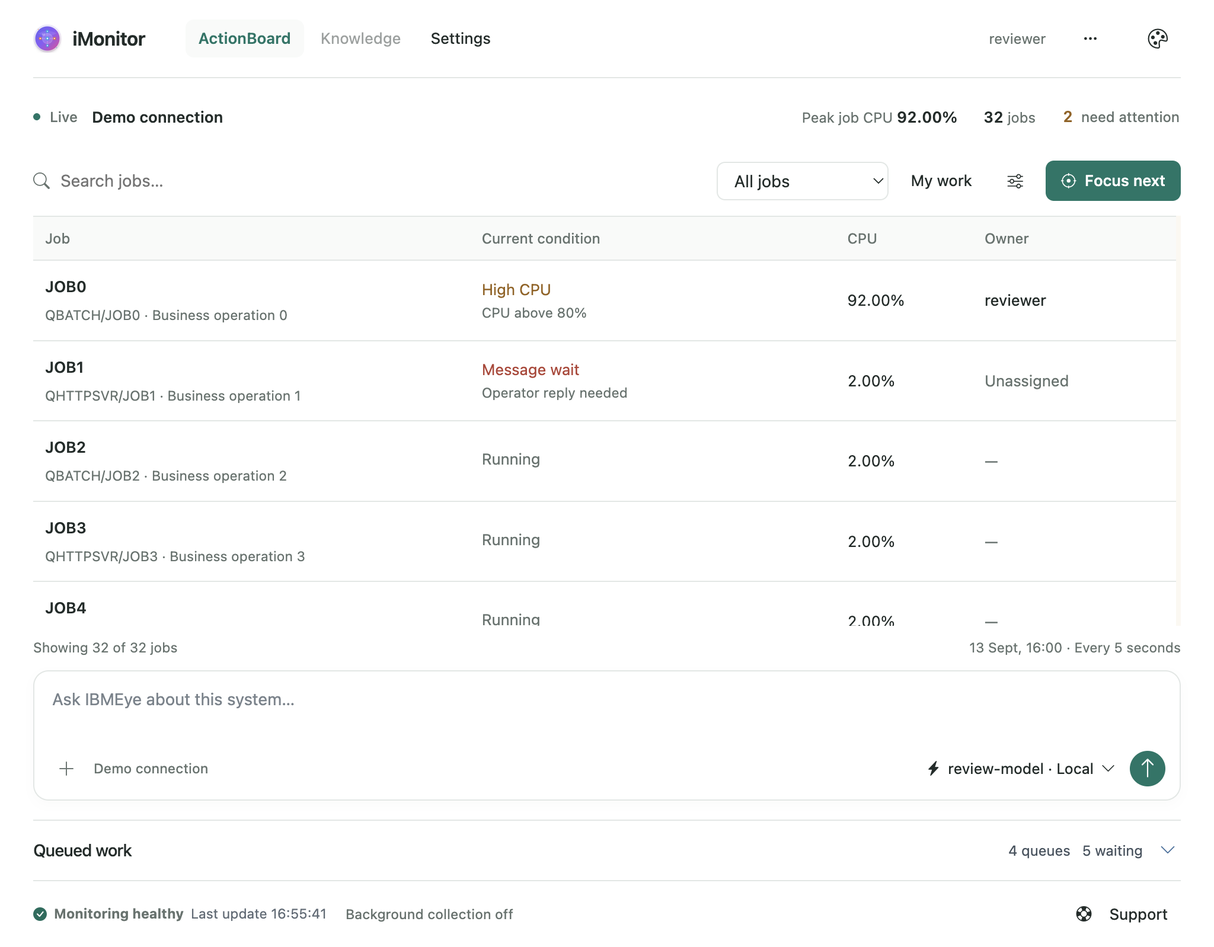
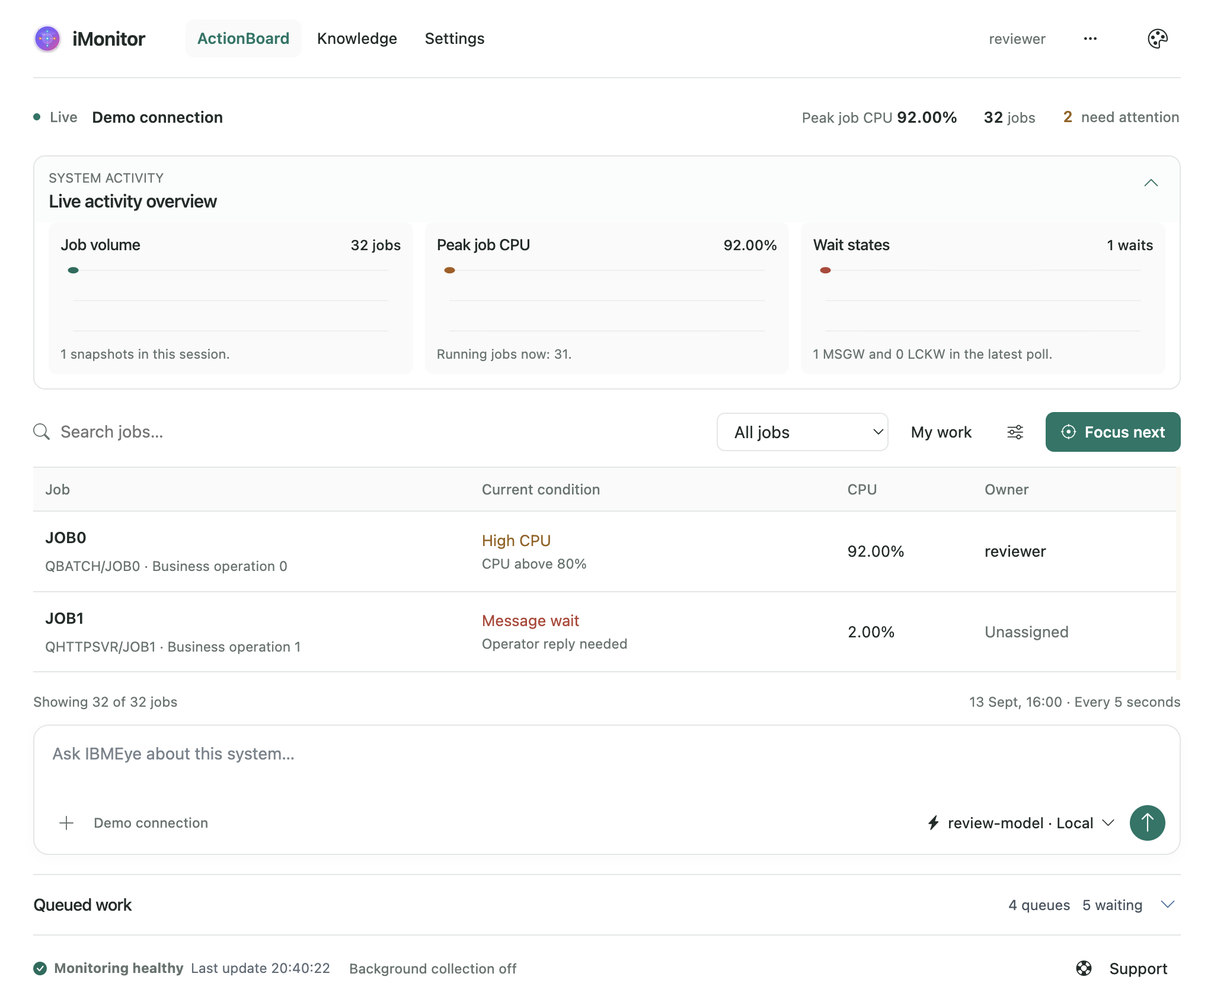
fix: show live activity on board entry (#58, UI-02, Project 8)

diff --git a/tests/e2e/board-workspace.spec.ts b/tests/e2e/board-workspace.spec.ts
@@ -50,6 +50,14 @@ async function pushSnapshot(app: ElectronApplication, data = jobs) {
     await app.evaluate(({ BrowserWindow }, value) => {
         const page = BrowserWindow.getAllWindows().find(win => win.webContents.getURL().endsWith('/monitor.html'))!;
         page.webContents.send('status-update', { data: value.jobs, generatedAt: '2026-09-13T10:30:00.000Z' });
+        page.webContents.send('monitoring-history-updated', [{
+            timestamp: '2026-09-13T10:30:00.000Z', totalJobs: value.jobs.length,
+            peakCpu: Math.max(0, ...value.jobs.map(job => job.CPU)),
+            runningJobs: value.jobs.filter(job => job.STATUS === 'RUN').length,
+            waitingJobs: value.jobs.filter(job => job.STATUS === 'MSGW').length,
+            messageWaitJobs: value.jobs.filter(job => job.STATUS === 'MSGW').length,
+            lockWaitJobs: 0, highCpuJobs: value.jobs.filter(job => job.CPU > 80).length
+        }]);
         page.webContents.send('alerts-updated', value.alerts);
     }, { jobs: data, alerts });
 }
@@ -61,6 +69,8 @@ test('keeps one compact workspace at desktop sizes, with accessible secondary fe
     await expect(page.locator('#system-stats th')).toHaveText(['Job', 'Current condition', 'CPU', 'Owner']);
     await expect(page.locator('.job-row').first().locator('.job-condition > span')).toHaveText('High CPU');
     await expect(page.locator('.job-row').first().locator('.job-owner-chip')).toHaveText('reviewer');
+    await expect(page.locator('#board-history-panel')).toHaveAttribute('open', '');
+    await expect(page.getByRole('heading', { name: 'Live activity overview' })).toBeVisible();
     for (const [width, height] of [[560, 600], [1024, 768], [1440, 900]]) {
         await app.evaluate(({ BrowserWindow }, size) => BrowserWindow.getAllWindows()[0].setSize(size[0], size[1]), [width, height]);
         const form = await page.locator('#ai-assistant-form').boundingBox();
@@ -70,6 +80,12 @@ test('keeps one compact workspace at desktop sizes, with accessible secondary fe
         expect(controls!.y).toBeGreaterThanOrEqual(input!.y + input!.height);
         expect(form!.height).toBeLessThan(130);
         expect(await page.evaluate(() => document.documentElement.scrollWidth <= innerWidth)).toBe(true);
+        const overview = (await page.locator('#board-history-panel').boundingBox())!;
+        const jobsToolbar = (await page.locator('.actionboard-jobs-panel .jobs-toolbar').boundingBox())!;
+        expect(overview.y + overview.height).toBeLessThanOrEqual(jobsToolbar.y);
+        expect(overview.height).toBeLessThan(250);
+        await expect(page.locator('#board-history-panel .trend-chart')).toHaveCount(3);
+        for (const chart of await page.locator('#board-history-panel .trend-chart').all()) await expect(chart).toBeVisible();
         const shot = testInfo.outputPath(`board-${width}.png`);
         await page.screenshot({ path: shot, fullPage: true });
         await testInfo.attach(`Board ${width}`, { path: shot, contentType: 'image/png' });
@@ -95,6 +111,40 @@ test('keeps one compact workspace at desktop sizes, with accessible secondary fe
     await page.locator('#board-companion-toggle').click();
     await expect(page.locator('#ibmeyeai-widget')).toBeHidden();
     expect(await page.evaluate(() => Boolean(document.querySelector('#job-queues-panel')!.compareDocumentPosition(document.querySelector('.app-footer')!) & Node.DOCUMENT_POSITION_FOLLOWING))).toBe(true);
+});
+
+test('shows live activity on entry, updates while collapsed and restores the overview on reconnect', async ({ board }) => {
+    const { app, page } = board;
+    const overview = page.locator('#board-history-panel');
+    await expect(overview).toHaveAttribute('open', '');
+    const sendHistory = async (history: unknown[]) => app.evaluate(({ BrowserWindow }, history) => {
+        BrowserWindow.getAllWindows()[0].webContents.send('monitoring-history-updated', history);
+    }, history);
+    await sendHistory([]);
+    await expect(page.locator('#jobs-history-chart')).toContainText('No data yet');
+    await expect(page.locator('#jobs-history-note')).toHaveText('Waiting for snapshot history.');
+    await page.locator('#ai-assistant-input').fill('Keep my investigation');
+    await overview.locator(':scope > summary').focus();
+    await overview.locator(':scope > summary').press('Enter');
+    await expect(overview).not.toHaveAttribute('open', '');
+    await sendHistory([
+        { totalJobs: 12, peakCpu: 25, runningJobs: 10, waitingJobs: 2, messageWaitJobs: 1, lockWaitJobs: 1 },
+        { totalJobs: 18, peakCpu: 42.5, runningJobs: 15, waitingJobs: 3, messageWaitJobs: 2, lockWaitJobs: 1 }
+    ]);
+    await expect(page.locator('#jobs-history-value')).toHaveText('18 jobs');
+    await expect(overview).not.toHaveAttribute('open', '');
+    await overview.locator(':scope > summary').press('Enter');
+    await expect(page.locator('#cpu-history-value')).toHaveText('42.50%');
+    await expect(page.locator('#wait-history-value')).toHaveText('3 waits');
+    await expect(page.locator('#wait-history-note')).toContainText('2 MSGW and 1 LCKW');
+    await expect(page.locator('#jobs-history-chart .trend-line')).toHaveAttribute('d', /L /);
+    await expect(page.locator('#cpu-history-chart')).toHaveAccessibleName(/Peak job CPU 42.50%/);
+    await expect(page.locator('#ai-assistant-input')).toHaveValue('Keep my investigation');
+    await overview.locator(':scope > summary').click();
+    await page.evaluate(() => window.electronAPI.disconnect());
+    await page.locator('#connect').click();
+    await expect(overview).toHaveAttribute('open', '');
+    await expect(page.locator('#jobs-history-chart')).toBeVisible();
 });
 
 test('preserves row identity, scroll, keyboard focus, filters and drafts across polling', async ({ board }) => {

diff --git a/public/monitor.html b/public/monitor.html
@@ -20,7 +20,6 @@
                     <div class="board-popover">
                         <button id="open-object-analysis" type="button"><i class="bi bi-diagram-3" aria-hidden="true"></i>Object analysis</button>
                         <button id="open-support-outcomes" type="button"><i class="bi bi-graph-up-arrow" aria-hidden="true"></i>Support outcomes</button>
-                        <button type="button" data-board-target="history"><i class="bi bi-clock-history" aria-hidden="true"></i>Activity trends</button>
                         <button type="button" data-board-target="incidents"><i class="bi bi-inbox" aria-hidden="true"></i>Incident history</button>
                         <button id="board-companion-toggle" type="button" aria-pressed="false"><i class="bi bi-stars" aria-hidden="true"></i>Show floating IBMEye</button>
                         <button id="disconnect" type="button"><i class="bi bi-power" aria-hidden="true"></i>Disconnect</button>
@@ -57,7 +56,7 @@
                 </div>
             </div>
 
-            <details id="board-history-panel" class="surface-card activity-overview monitor-legacy-overview board-secondary-panel" hidden data-testid="activity-overview">
+            <details id="board-history-panel" class="surface-card activity-overview board-secondary-panel" open data-testid="activity-overview">
                 <summary class="activity-overview-summary">
                     <div class="panel-heading-lockup">
                         <span class="panel-heading-icon is-activity" aria-hidden="true"><i class="bi bi-activity"></i></span>
@@ -74,23 +73,23 @@
                     <div class="history-views-grid">
                     <div class="history-view history-view-jobs" data-history-view="jobs">
                         <div class="history-card-header">
-                            <div><p class="eyebrow mb-2">History</p><h3 class="section-title">Job volume</h3></div>
+                            <div><p class="eyebrow mb-2">History</p><h3 id="jobs-history-title" class="section-title">Job volume</h3></div>
                             <span id="jobs-history-value" class="table-caption">0 jobs</span>
                         </div>
                         <div class="history-meta-strip"><div class="history-meta-pill"><span>Range</span><strong id="jobs-history-range">0-0</strong></div><div class="history-meta-pill"><span>Latest</span><strong id="jobs-history-latest">0 jobs</strong></div></div>
-                        <svg id="jobs-history-chart" class="trend-chart" viewBox="0 0 320 120" preserveAspectRatio="none"></svg>
+                        <svg id="jobs-history-chart" class="trend-chart" role="img" aria-labelledby="jobs-history-title jobs-history-value jobs-history-note" viewBox="0 0 320 120" preserveAspectRatio="none"></svg>
                         <p id="jobs-history-note" class="stat-note mb-0">Waiting for snapshot history.</p>
                     </div>
                     <div class="history-view history-view-cpu" data-history-view="cpu">
-                        <div class="history-card-header"><div><p class="eyebrow mb-2">History</p><h3 class="section-title">Peak CPU</h3></div><span id="cpu-history-value" class="table-caption">0.00%</span></div>
+                        <div class="history-card-header"><div><p class="eyebrow mb-2">History</p><h3 id="cpu-history-title" class="section-title" title="Highest CPU usage of an active job, not total system CPU">Peak job CPU</h3></div><span id="cpu-history-value" class="table-caption">0.00%</span></div>
                         <div class="history-meta-strip"><div class="history-meta-pill"><span>Range</span><strong id="cpu-history-range">0.00-0.00%</strong></div><div class="history-meta-pill"><span>Running</span><strong id="cpu-history-running">0 jobs</strong></div></div>
-                        <svg id="cpu-history-chart" class="trend-chart" viewBox="0 0 320 120" preserveAspectRatio="none"></svg>
+                        <svg id="cpu-history-chart" class="trend-chart" role="img" aria-labelledby="cpu-history-title cpu-history-value cpu-history-note" viewBox="0 0 320 120" preserveAspectRatio="none"></svg>
                         <p id="cpu-history-note" class="stat-note mb-0">No CPU history collected yet.</p>
                     </div>
                     <div class="history-view history-view-waits" data-history-view="waits">
-                        <div class="history-card-header"><div><p class="eyebrow mb-2">History</p><h3 class="section-title">Wait states</h3></div><span id="wait-history-value" class="table-caption">0 waits</span></div>
+                        <div class="history-card-header"><div><p class="eyebrow mb-2">History</p><h3 id="wait-history-title" class="section-title">Wait states</h3></div><span id="wait-history-value" class="table-caption">0 waits</span></div>
                         <div class="history-meta-strip"><div class="history-meta-pill"><span>MSGW</span><strong id="wait-history-msgw">0</strong></div><div class="history-meta-pill"><span>LCKW</span><strong id="wait-history-lckw">0</strong></div></div>
-                        <svg id="wait-history-chart" class="trend-chart" viewBox="0 0 320 120" preserveAspectRatio="none"></svg>
+                        <svg id="wait-history-chart" class="trend-chart" role="img" aria-labelledby="wait-history-title wait-history-value wait-history-note" viewBox="0 0 320 120" preserveAspectRatio="none"></svg>
                         <p id="wait-history-note" class="stat-note mb-0">MSGW and LCKW snapshots will appear here.</p>
                     </div>
                     </div>

diff --git a/public/styles/board-workspace.css b/public/styles/board-workspace.css
@@ -125,6 +125,23 @@ body.board-minimal[data-theme="aurora-mist"] { --board-paper: #fbfefd; --board-s
 .board-minimal #job-queues-panel .panel-disclosure-icon { width: 22px; height: 22px; border: 0; background: none; }
 .board-minimal .board-secondary-panel:not([hidden]) { display: block; margin: 12px 0; border-radius: 10px; border: 1px solid var(--board-line); background: var(--board-paper); box-shadow: none; }
 .board-minimal .board-secondary-panel .activity-overview-summary { gap: 12px; }
+.board-minimal #board-history-panel { margin: 0 0 14px; }
+.board-minimal #board-history-panel > summary { padding: 10px 12px; }
+.board-minimal #board-history-panel > summary :is(.panel-heading-icon,.panel-copy) { display: none; }
+.board-minimal #board-history-panel > summary .eyebrow { font: inherit; font-size: 11px; color: var(--board-muted); letter-spacing: 0; margin: 0 0 3px !important; }
+.board-minimal #board-history-panel > summary .section-title { font-size: 15px; font-weight: 550; margin: 0; }
+.board-minimal #board-history-panel .panel-disclosure-icon { width: 24px; height: 24px; border: 0; background: none; }
+.board-minimal #board-history-panel .activity-overview-body { padding: 0 12px 12px; }
+.board-minimal #board-history-panel .history-views-grid { grid-template-columns: repeat(3, minmax(0, 1fr)); gap: 10px; }
+.board-minimal #board-history-panel .history-view { padding: 10px; gap: 6px; border: 0; border-radius: 7px; background: var(--board-soft); }
+.board-minimal #board-history-panel .history-card-header { display: flex; flex-wrap: wrap; gap: 4px 8px; padding: 0; }
+.board-minimal #board-history-panel .history-card-header .section-title { font-size: 13px; font-weight: 500; margin: 0; color: var(--board-ink); }
+.board-minimal #board-history-panel .table-caption { font-size: 12px; font-weight: 500; color: var(--board-ink); background: none; border: 0; padding: 0; min-height: 0; }
+.board-minimal #board-history-panel .trend-chart { height: 64px; border-radius: 0; background: none; }
+.board-minimal #board-history-panel :is(.trend-axis,.trend-grid) { stroke: var(--board-line); }
+.board-minimal #board-history-panel .trend-empty { fill: var(--board-muted); }
+.board-minimal #board-history-panel .stat-note { font-size: 11px; color: var(--board-muted); }
+.board-minimal:has(#board-history-panel[open]) #system-stats { max-height: clamp(180px, calc(100vh - 565px), 480px); }
 .board-minimal .app-footer { background: none; box-shadow: none; border: 0; border-radius: 0; display: flex; gap: 15px; flex-wrap: wrap; align-items: center; padding: 12px 0; margin: 0; }
 body.board-minimal .app-status-bar { position: static; display: flex; gap: 6px; transform: none; width: auto; max-width: none; border: 0; border-radius: 0; box-shadow: none; padding: 0; margin: 0; background: none; font-size: 11.5px; min-height: 0; color: var(--board-muted); }
 .board-minimal .app-status-detail { font-size: 11.5px; }

diff --git a/public/monitor/board-workspace.js b/public/monitor/board-workspace.js
@@ -28,7 +28,7 @@ export function initBoardWorkspace({ getViewState, restoreViewState, clearAiScop
         }
     });
     root.querySelectorAll('[data-board-target]').forEach(button => button.addEventListener('click', () => {
-        const target = { jobs: '.actionboard-jobs-panel', history: '#board-history-panel', incidents: '.alerts-panel' }[button.dataset.boardTarget];
+        const target = { jobs: '.actionboard-jobs-panel', incidents: '.alerts-panel' }[button.dataset.boardTarget];
         const panel = root.querySelector(target);
         if (!panel) return;
         panel.hidden = false;

diff --git a/docs/design/ui58/README.md b/docs/design/ui58/README.md
@@ -19,7 +19,8 @@ Screenshots include the full page and use the host display scale; image pixel di
 | AI explanations, runbooks, Resolution Memory, L3 problems and replay | Existing task tabs; unchanged action and permission boundaries |
 | Board/job AI, presets, model setup | Full-width composer, + menu, explicit context label, compact model menu |
 | Floating IBMEye | Workspace ⋯ menu; optional, hidden on entry |
-| Activity trends, incident history including system incidents, support outcomes | Workspace ⋯ menu |
+| Live activity: Job volume, Peak job CPU, Wait states | Expanded above jobs on connection; select the overview heading to collapse/expand |
+| Incident history including system incidents, support outcomes | Workspace ⋯ menu |
 | Object analysis, source loading, call graph, compile plan and reports | Workspace ⋯ → Object analysis |
 | Integrations, support access, collection/retention | Settings; footer collection status opens Settings |
 | Queue search, triage, inspection and safe actions | Queued work, collapsed below the composer |
@@ -40,3 +41,9 @@ The source of the board is `public/monitor.html`. Workspace state lives in `publ
 ## Current acceptance status
 
 Implementation and automated test evidence are recorded above. #58 is open in **UAT**, pending user acceptance before Done. This stage does not imply client deployment.
+
+## Live activity entry-screen update
+
+The user requested System activity on the first screen after connection. The overview now opens above jobs with compact Job volume, Peak job CPU and Wait states charts. It remains keyboard collapsible, receives history updates while collapsed, and starts expanded again after reconnecting. The redundant Activity trends menu entry is removed. Chart backgrounds follow the board theme; accessible chart names include the latest value.
+
+Validation: build and all 44 renderer modules passed; four monitoring unit checks passed; all ten focused board/Connect Electron scenarios passed. After the dark-theme chart-background correction, all five board scenarios passed again. Coverage includes three native window sizes, light/dark screenshots, first entry, empty history, multiple snapshots, keyboard collapse, updates while collapsed, reconnect, drafts, model availability and connection gates. These are isolated automated checks; user UAT remains pending.

diff --git a/docs/UI_DESIGN.md b/docs/UI_DESIGN.md
@@ -37,7 +37,7 @@ The form stays near 450 CSS px on a large desktop and reflows within smaller win
 
 UI-02 implements the subsequently approved [minimal board sketch](design/minimal-actionboard.html); see [implementation screenshots and feature entry points](design/ui58/README.md). The operator chose this board as the first runtime delivery; Connect/shared navigation is now delivered in #57; the job-window redesign (#59) and Settings categories (#60) remain separate. UI-01 now opens Knowledge as a clearly labelled library placeholder with Analyze code; no ingestion or retrieval is claimed. Existing Resolution Memory is available in job tasks.
 
-Move basic system information into one top strip. Show CPU, job count, incident count, connection state, and observation time without duplicate statistic cards. Keep one search/filter toolbar and the jobs table. Show the specific condition, such as **Lock wait** or **High CPU · 62%**, instead of a generic ISSUE badge alongside a reassuring Running badge. Technical execution state remains available in details.
+Move basic system information into one top strip. Show CPU, job count, incident count, connection state, and observation time without duplicate statistic cards. The live activity overview opens beneath this strip after connecting, above the jobs toolbar. Keep compact Job volume, Peak job CPU and Wait states charts; the operator can collapse them to enlarge the jobs area. Polling does not change the disclosure state. Keep one search/filter toolbar and the jobs table. Show the specific condition, such as **Lock wait** or **High CPU · 62%**, instead of a generic ISSUE badge alongside a reassuring Running badge. Technical execution state remains available in details.
 
 Search, status/subsystem filters, My work, Focus next, owner, and polling controls remain available. Polling must preserve selection, scrolling, focus, text, and open task windows. The growing composer sits under the list. Routine provider-ready copy stays out of the idle view; setup problems remain discoverable. Job queues stay collapsed near the bottom before Support. Background health, support outcomes, and the companion remain available through compact entry points.
 

diff --git a/README.md b/README.md
@@ -32,7 +32,7 @@ Resource relationships are evidence-backed and timestamped. The graph is bounded
 
 Settings can map a job, resource, queue, or subsystem to a customer-defined business service and owner. The task response shows the configured deadline and expected operating window; unmatched impact stays unknown.
 
-The compact ActionBoard keeps one jobs table and a full-width AI input. The **⋯** menu opens activity trends, incident history, object analysis, the optional floating IBMEye, and **Support outcomes** for team leads. Choose a date window to see incident volume, acknowledgement/investigation/recovery measurements, escalation and recurrence signals, AI request availability, sample sizes, unknown outcomes, and a comparison with the previous equal window. The report is scoped to the connected customer system and can be exported as JSON. It records operator-verified recovery separately and keeps autonomous recovery at zero until that future capability is deliberately introduced.
+The compact ActionBoard opens with a live activity overview above its jobs table: Job volume, Peak job CPU and Wait states. The overview can collapse to give the jobs list more room. A full-width AI input sits below the list. The **⋯** menu opens incident history, object analysis, the optional floating IBMEye, and **Support outcomes** for team leads. Choose a date window to see incident volume, acknowledgement/investigation/recovery measurements, escalation and recurrence signals, AI request availability, sample sizes, unknown outcomes, and a comparison with the previous equal window. The report is scoped to the connected customer system and can be exported as JSON. It records operator-verified recovery separately and keeps autonomous recovery at zero until that future capability is deliberately introduced.
 
 ## Run locally
 

diff --git a/docs/TECHNICAL.md b/docs/TECHNICAL.md
@@ -183,3 +183,7 @@ Unit tests cover domain behavior. Electron tests use temporary application store
 `public/connection/saved-connections.js` owns profile selection, edit/add/cancel/save/delete and load retry. The entry module retains connection execution, themes, entitlements and Support. A save includes the existing profile ID during edits, preserving backend duplicate checks and encryption. Background profile notifications do not replace unfinished input. Busy operations lock profile controls; the Connect screen has no workspace destinations that could discard unfinished edits. Credentials stay in renderer memory and the existing protected profile store, never browser session storage.
 
 `public/styles/app-shell.css` scopes shared tokens, navigation and compact form patterns to migrated screens. The board keeps its feature styles. Settings categories and job-window layout remain separate tickets (#60 and #59). The shared navigation prevents departure while a board AI request is pending, and board session preferences restore its unsent draft after navigation without automatically sending it.
+
+### Live activity on the connected board
+
+`public/monitor.html` opens the existing `board-history-panel` disclosure above jobs. `public/monitor/history.js` continues rendering the main-process polling history for Job volume, Peak job CPU and Wait states, including empty history; collapsing the overview does not stop collection or reopen the panel on updates. Each connection starts with it expanded. The scoped board stylesheet keeps three compact charts in light/dark and narrow layouts and reduces the job-list scroll height only while the overview is expanded. No additional polling loop, history store, or telemetry metric was added.

diff --git a/docs/USER_GUIDE.md b/docs/USER_GUIDE.md
@@ -95,7 +95,7 @@ Moving between ActionBoard, Knowledge, and Settings keeps the IBM i connection a
 
 The top strip shows the connection state, saved system name, **Peak job CPU**, active-job count, and work needing attention. Peak job CPU is the highest CPU value among active jobs, not total system CPU. The observation time and polling interval are below the table. Check that observation time continues to advance; changing filters does not make old data look new.
 
-**Settings** and the theme control stay in the header. Open **⋯** for Object analysis, Support outcomes, Activity trends, Incident history, the optional floating IBMEye, or Disconnect. **Knowledge** opens a clearly marked library placeholder with **Analyze code** for the existing source browser, graphs, compile plans, and reports. Search and ingestion will arrive in later tickets; existing Resolution Memory remains available in job tasks.
+**Settings** and the theme control stay in the header. The **System activity → Live activity overview** opens above the jobs list after connecting, with live Job volume, Peak job CPU and Wait states charts. Select its heading to collapse or expand it; polling continues while collapsed. Reconnecting opens it again. Open **⋯** for Object analysis, Support outcomes, Incident history, the optional floating IBMEye, or Disconnect. **Knowledge** opens a clearly marked library placeholder with **Analyze code** for the existing source browser, graphs, compile plans, and reports. Search and ingestion will arrive in later tickets; existing Resolution Memory remains available in job tasks.
 
 ### Use the active jobs list
 

diff --git a/docs/FEATURES.md b/docs/FEATURES.md
@@ -6,6 +6,8 @@ iMonitor uses a simple Free/Premium feature boundary. The application keeps Prem
 
 - Compact saved-system Connect flow with protected credentials, in-place profile rename, load/connection retry, and first-use setup. After connecting, shared ActionBoard/Knowledge/Settings navigation preserves monitoring and the board draft within the window session. Knowledge provides Analyze code while the retrieval library is planned.
 
+- Live activity overview opens above jobs after connecting, with Job volume, Peak job CPU and Wait states charts; collapse it for more job-list space.
+
 - One active-job workspace with filters, issue labels, owner names, and priority focus.
 - Deterministic incident correlation groups related signals for the same job within a five-minute window and shows a priority score with the reasons behind it.
 - Separate job task windows with workflow actions, AI guidance, and history.

diff --git a/CHANGELOG.md b/CHANGELOG.md
@@ -4,6 +4,8 @@
 
 ### 2026-09-13
 
+- Show the compact live activity overview above jobs by default after connecting; retain live chart updates while collapsed (#58, UI-02, Project 8).
+
 - Removed workspace navigation from Connect and blocked Settings/Knowledge routes until connected (#57, UI-01, Project 8). Profile controls, theme, plan and Support remain available before connection.
 - Added the explicit UAT stage before Done for Project 8; completed implementation awaits user acceptance.
 - Added the compact Connect screen and shared ActionBoard/Knowledge/Settings navigation (#57, UI-01, Project 8).
